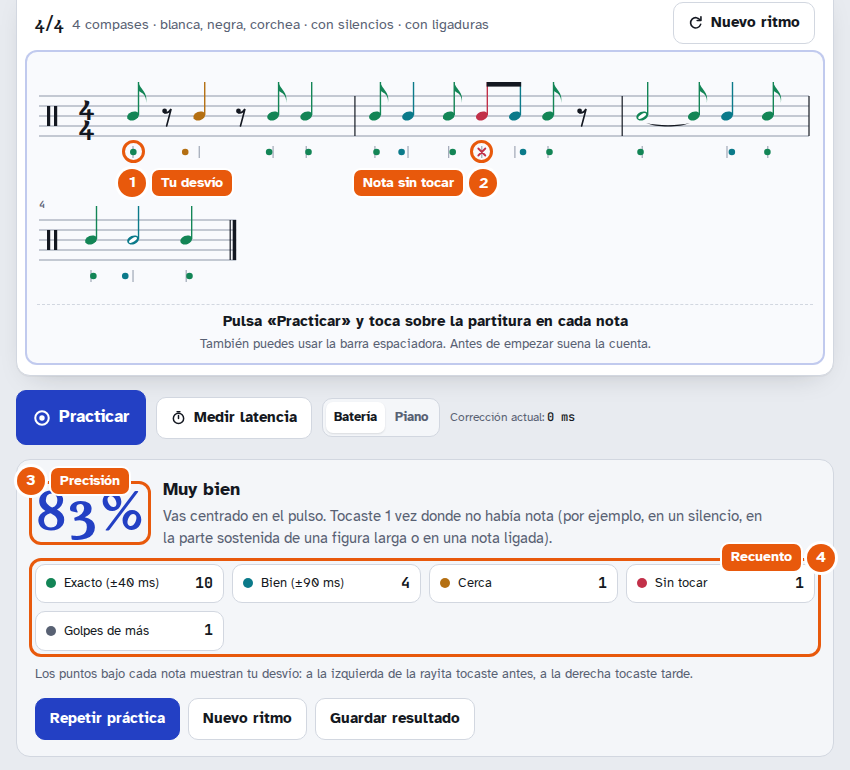
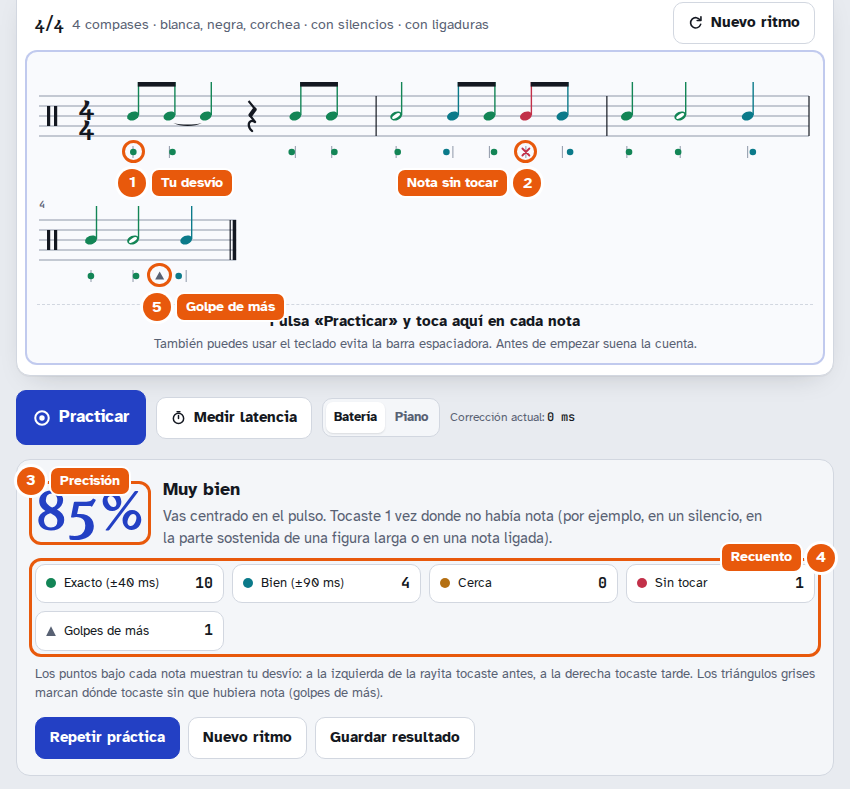
Mostrar los golpes de más en la partitura
- Cada golpe de más guarda su posición en el ritmo (con la misma corrección
  de latencia que las notas) y en los resultados aparece como un triángulo
  gris bajo la partitura, en el punto exacto donde se tocó.
- Leyenda y recuento con el mismo triángulo; README y captura de resultados
  actualizados.

Claude-Session: https://claude.ai/code/session_01KR51CwVVXhtFmUshsMceNd

diff --git a/index.html b/index.html
@@ -103,7 +103,7 @@
           <li><span class="sw-dot" style="background:var(--ok)"></span>Bien (±90 ms)<span class="n" id="cGood">0</span></li>
           <li><span class="sw-dot" style="background:var(--near)"></span>Cerca<span class="n" id="cNear">0</span></li>
           <li><span class="sw-dot" style="background:var(--bad)"></span>Sin tocar<span class="n" id="cMiss">0</span></li>
-          <li><span class="sw-dot" style="background:var(--muted)"></span>Golpes de más<span class="n" id="cExtra">0</span></li>
+          <li><span class="sw-dot tri" style="background:var(--muted)"></span>Golpes de más<span class="n" id="cExtra">0</span></li>
         </ul>
         <ul class="counts" id="durCounts" hidden>
           <li><span class="sw-dot" style="background:var(--good)"></span>Duración justa<span class="n" id="dExact">0</span></li>
@@ -116,7 +116,7 @@
           <p id="rcText"></p>
           <button class="btn primary" id="rcNext" type="button">Siguiente nivel</button>
         </div>
-        <p class="res-note">Los puntos bajo cada nota muestran tu desvío: a la izquierda de la rayita tocaste antes, a la derecha tocaste tarde.<span id="durNote" hidden> En modo piano, la barra de debajo compara cuánto mantuviste la nota (color) con lo que debía durar (gris); la rayita marca dónde tenías que soltar.</span></p>
+        <p class="res-note">Los puntos bajo cada nota muestran tu desvío: a la izquierda de la rayita tocaste antes, a la derecha tocaste tarde. Los triángulos grises marcan dónde tocaste sin que hubiera nota (golpes de más).<span id="durNote" hidden> En modo piano, la barra de debajo compara cuánto mantuviste la nota (color) con lo que debía durar (gris); la rayita marca dónde tenías que soltar.</span></p>
         <div class="res-actions">
           <button class="btn primary" id="rAgain" type="button">Repetir práctica</button>
           <button class="btn" id="rNew" type="button">Nuevo ritmo</button>
@@ -324,7 +324,7 @@ function load(){
 function save(){ try{ localStorage.setItem(KEY, JSON.stringify(set)); }catch(e){} }
 
 /* ---------- Generación ---------- */
-let score = null, judg = [], extras = 0;
+let score = null, judg = [], extras = 0, extraTks = []; // extraTks: posición (en ticks) de cada golpe de más
 const sum = a => a.reduce((s,x)=>s+x,0);
 function allowed(c){ const C=cfg(); if(c.rest && !C.rests) return false; if(c.sync && !C.ties) return false; return c.req.every(k=>C.figs.includes(k)); }
 function weighted(a){ const t=sum(a.map(x=>x.w)); let r=Math.random()*t; for(const x of a){ r-=x.w; if(r<=0) return x; } return a[a.length-1]; }
@@ -367,7 +367,7 @@ function generate(){
   // e.len = duración que suena (la nota ligada suma las que le siguen); e.head = nota que se toca
   flat.forEach(e=>{ e.len=e.dur; e.head=e.i; if(e.tie){ const h=flat[flat[e.i-1].head]; e.head=h.i; h.len+=e.dur; } });
   score={key:C.sig,grp:sig.grp,bars:C.bars,sig,L,measures,flat,fb};
-  judg=[]; extras=0; $('#results').hidden=true;
+  judg=[]; extras=0; extraTks=[]; $('#results').hidden=true;
   renderScore(); renderSummary(); renderLights(); renderTempoGlyph();
 }
 
@@ -536,6 +536,14 @@ function measureSVG(mi,mx,MW){
     }
   });
   runs.forEach(r=>{ s+=beamsSVG(r); });
+  // golpes de más: triángulo gris en la fila de los marcadores, en su posición dentro del compás
+  const m0=mi*score.L;
+  extraTks.forEach(tk=>{
+    if(tk<m0 || tk>=m0+score.L) return;
+    const t=tk-m0, k=evs.findIndex(e=>t>=e.start && t<e.start+e.dur); if(k<0) return;
+    const e=evs[k], nx = k<evs.length-1 ? evs[k+1].x : mx+MW-8, x=e.x+(t-e.start)/e.dur*(nx-e.x), my=Y0+56;
+    s+=`<path class="mkextra" d="M${x} ${my-4.5}L${x+4.5} ${my+3.5}L${x-4.5} ${my+3.5}Z"><title>Golpe de más</title></path>`;
+  });
   return s;
 }
 
@@ -705,7 +713,7 @@ function start(mode){
   const countBars = mode==='metro'?0:(+set.countIn);
   S={mode,running:true,bus,spt,lat,t0,passStart:t0+countBars*L*spt,passDur:score.bars*L*spt,
      loop:mode==='play'&&set.loop,vis:[],visPtr:0,genPass:0,nextBar:t0,nowI:-1,light:-1,notes:[]};
-  judg=[]; extras=0; $('#results').hidden=true; if(mode==='practice') $('#calib').hidden=true;
+  judg=[]; extras=0; extraTks=[]; $('#results').hidden=true; if(mode==='practice') $('#calib').hidden=true;
   if(mode!=='metro'){
     for(let b=0;b<countBars;b++) barClicks(t0+b*L*spt,spt,true,true);
     schedulePass(0); S.genPass=1;
@@ -830,7 +838,13 @@ function tap(src){
     const err=now-n.t;
     if(Math.abs(err)<=n.win && (!best || Math.abs(err)<Math.abs(bestErr))){ best=n; bestErr=err; }
   }
-  if(!best){ extras++; flashPad('miss'); updateLive(); return; }
+  if(!best){
+    extras++;
+    // misma referencia de tiempo que las notas (latencia de salida y corrección del usuario)
+    const tk=(now-S.passStart-S.lat-set.offset/1000)/S.spt;
+    extraTks.push(Math.max(0,Math.min(score.bars*score.L-0.01,tk)));
+    flashPad('miss'); updateLive(); return;
+  }
   best.done=true;
   if(S.hold){ const h=S.holds.get(src||'x'); if(h) h.note=best; }
   const ms=bestErr*1000, a=Math.abs(ms);

diff --git a/styles.css b/styles.css
@@ -97,6 +97,7 @@ kbd{font-family:var(--mono);font-size:11px;border:1px solid var(--line);border-b
 .ref{stroke:var(--staff);stroke-width:1}
 .mk.j-exact{fill:var(--good)} .mk.j-good{fill:var(--ok)} .mk.j-near{fill:var(--near)}
 .mkx{stroke:var(--bad);stroke-width:1.8;stroke-linecap:round}
+.mkextra{fill:var(--muted)}
 .dtrack{fill:var(--line)}
 .dbar{fill:var(--muted)} .dbar.d-exact{fill:var(--good)} .dbar.d-ok{fill:var(--ok)} .dbar.d-short,.dbar.d-long{fill:var(--near)}
 .dtick{stroke:var(--ink);stroke-width:1.2}
@@ -153,6 +154,7 @@ kbd{font-family:var(--mono);font-size:11px;border:1px solid var(--line);border-b
 .counts li{display:flex;align-items:center;gap:8px;background:var(--paper);border:1px solid var(--line);border-radius:10px;padding:8px 10px;font-size:13px}
 .counts .n{margin-left:auto;font-family:var(--mono);font-weight:700;font-size:15px;font-variant-numeric:tabular-nums}
 .sw-dot{width:10px;height:10px;border-radius:50%;flex:none}
+.sw-dot.tri{border-radius:0;clip-path:polygon(50% 0,100% 100%,0 100%)}
 .res-note{font-size:13px;color:var(--muted);margin:0}
 .res-actions{display:flex;gap:8px;flex-wrap:wrap}
 

diff --git a/CLAUDE.md b/CLAUDE.md
@@ -37,7 +37,7 @@ Nació como un Artifact publicado en claude.ai. Allí el progreso se guardaba en
 - **Silencios de semicorchea:** celdas con `[3,1]` en `SIMPLE_BEAT` y `COMP_BEAT` (solo con `rests` y la semicorchea elegida); `restSVG` dibuja el silencio de dos ganchos.
 - **Ligaduras y síncopas (`ties`):** cada figura escrita es un evento; `e.tie` marca la que continúa a la anterior (no se toca ni suena), `e.head` apunta a la nota que se toca y `e.len` es lo que suena (la cabeza suma toda la cadena). Reproducción y práctica usan `len` y saltan las ligadas. Solo se liga la última nota de una celda con la primera de la siguiente (máx. 2 notas, nunca tresillos). Las celdas con `sync:true` (corchea-negra-corchea, negra-blanca-negra) solo salen con `ties`.
 - **Evaluación de golpes:** exacto ±40 ms, bien ±90 ms, cerca dentro de la ventana de la nota (mitad de la distancia a la nota vecina, entre 50 y 180 ms). Puntos: 100 / 80 / 50 / 0.
-- **Golpes de más:** restan 40 puntos cada uno si `set.penalize` está activo (activado por defecto); si no, solo se cuentan.
+- **Golpes de más:** restan 40 puntos cada uno si `set.penalize` está activo (activado por defecto); si no, solo se cuentan. Su posición se guarda en `extraTks` (ticks desde el inicio, con la misma corrección de latencia que las notas) y en los resultados se dibuja como un triángulo gris (`.mkextra`) en la fila de los marcadores, interpolado dentro de la figura donde cayó.
 - **Modo piano (`set.hold`):** además del ataque se evalúa cuándo se suelta respecto al final de la figura. Justa ±max(70 ms, 15 % de la duración), aceptable ±max(140 ms, 30 %), si no «antes» o «tarde». Puntos: 100 / 70 / 30. Cada nota vale 60 % ataque + 40 % duración.
 - **Latencia:** la hora esperada de cada nota suma `ctx.outputLatency` (o `baseLatency`) y la corrección del usuario (`set.offset`, en ms, positiva si el usuario llega tarde).
 - **Toque audible (`set.tapSound`, `set.tapVol`):** en modo piano suena un tono mientras se mantiene; en batería, un golpe corto. No suena durante la medición de latencia.

diff --git a/README.md b/README.md
@@ -53,6 +53,7 @@ En los silencios y en las notas ligadas no se toca: la ligadura alarga la nota a
 2. **Nota sin tocar:** una ✕ roja.
 3. **Precisión:** la nota global, con un consejo (si tiendes a adelantarte o atrasarte).
 4. **Recuento:** exactas, bien, cerca, sin tocar y golpes de más. En modo piano aparece además una barra bajo cada nota que compara cuánto la mantuviste con lo que debía durar.
+5. **Golpe de más:** un triángulo gris marca dónde tocaste sin que hubiera nota (en un silencio, en la parte sostenida de una figura larga o en una nota ligada).
 
 Si siempre te marca «tarde» aunque vayas a tiempo (pasa con auriculares Bluetooth), usa **Medir latencia**: tocas con 16 clics y la app calcula la corrección.
 
